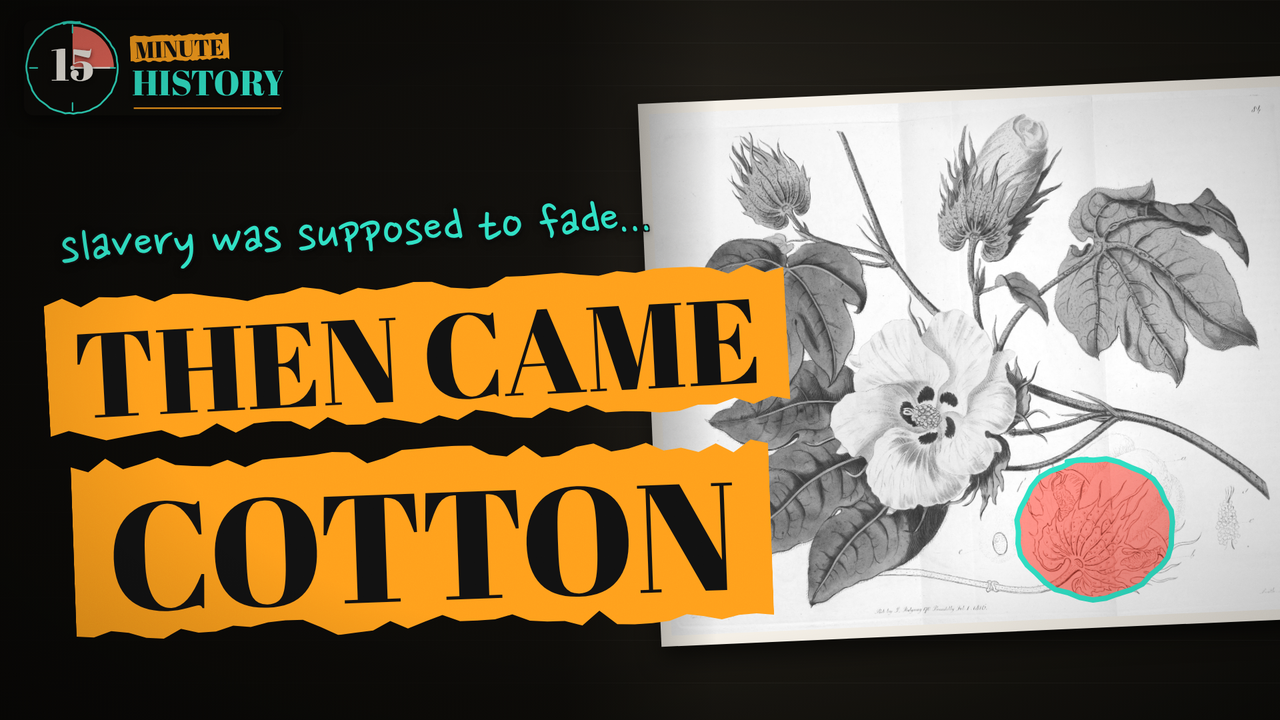
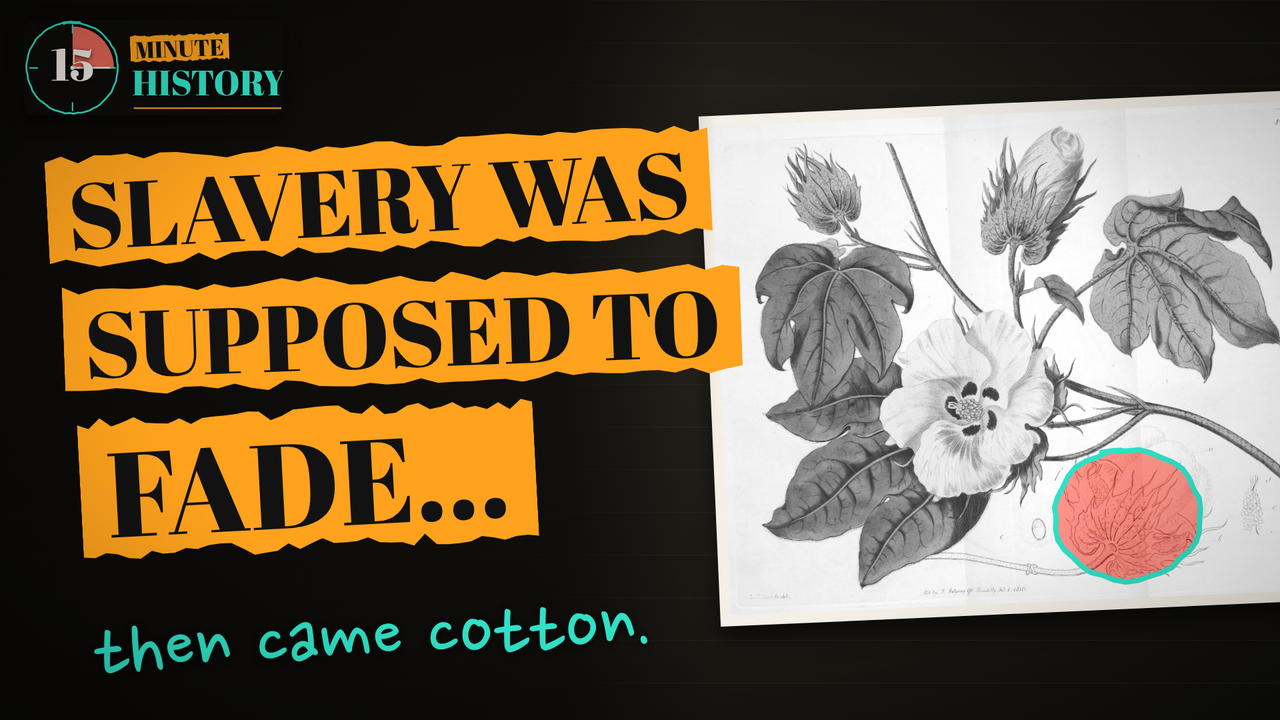
Thumbnail B: SLAVERY WAS SUPPOSED TO FADE... as the headline, then came cotton smaller
Claude-Session: https://claude.ai/code/session_015cLj4pVbnCdGKoP47eK68b

diff --git a/video/src/Thumbnail.tsx b/video/src/Thumbnail.tsx
@@ -2,7 +2,7 @@
 // (tools/thumbs.mjs renders frame 140 so every write-on has finished). No portrait of Nat Turner exists, so neither
 // concept invents a face: they use the video's own documents.
 //   A · the notice: Floyd's 1831 reward proclamation on the desk, the $500 line and the signature masked in coral.
-//   B · the seed: the 1815 cotton plate, its open boll masked, under the question.
+//   B · the seed: the 1815 cotton plate, its open boll masked; SLAVERY WAS SUPPOSED TO FADE..., then a smaller 'then came cotton.'
 import React from 'react';
 import {AbsoluteFill, staticFile} from 'remotion';
 import {Wordmark} from './kit/Intro';
@@ -50,13 +50,14 @@ export const ThumbB: React.FC = () => (
   <PaletteCtx.Provider value={PALETTES.locked}>
     <AbsoluteFill style={{background: '#15130f', overflow: 'hidden'}}>
       <DarkPaper />
-      <Doc src={SEED} x={990} y={150} w={960} rot={-2.5} sepia={0} at={0} marks={[
+      <Doc src={SEED} x={1080} y={170} w={900} rot={-2.5} sepia={0} at={0} marks={[
         {ellipse: [2565, 2600, 470, 420], at: 0, tint: true, seed: 31, width: 8},
       ]} />
       <AbsoluteFill style={{background: 'linear-gradient(90deg, rgba(8,7,5,0.9) 0%, rgba(8,7,5,0.7) 44%, rgba(8,7,5,0) 56%)'}} />
-      <Note text="slavery was supposed to fade..." x={90} y={300} size={54} rot={-3} color={TEAL} />
-      <Highlight text="THEN CAME" x={70} y={420} size={180} at={0} seed={75} rot={-3} />
-      <Highlight text="COTTON" x={110} y={670} size={230} at={0} seed={77} rot={-2} />
+      <Highlight text="SLAVERY WAS" x={70} y={210} size={140} at={0} seed={75} rot={-3} />
+      <Highlight text="SUPPOSED TO" x={95} y={410} size={140} at={0} seed={76} rot={-2} />
+      <Highlight text="FADE..." x={120} y={610} size={180} at={0} seed={77} rot={-3} />
+      <Note text="then came cotton." x={140} y={880} size={84} rot={-3} color={TEAL} />
       <Logo />
       <Finish vignette={0.3} />
     </AbsoluteFill>

diff --git a/review/YouTube_description.md b/review/YouTube_description.md
@@ -61,6 +61,6 @@ slavery in the old south, cotton south, nat turner, nat turner rebellion, cotton
 
 - **Altered or synthetic content: Yes.** The narration is an AI voice clone and the music is AI-generated. There are no AI images: every visual is a sourced historical image with an on-screen source tag.
 - **Category:** Education.
-- **Thumbnail:** `video/renders/thumbnails/Grip_Tighter_A.png` (alternate: `Grip_Tighter_B.png`).
+- **Thumbnail:** `video/renders/thumbnails/Grip_Tighter_B.png` ("SLAVERY WAS SUPPOSED TO FADE... then came cotton."; alternate: `Grip_Tighter_A.png`).
 - **Video file:** `Grip_Tighter_1080p.mp4` (the 1080p master, mastered to −14 LUFS).
 - **Audience:** not made for kids (it covers violence and sexual assault, stated plainly but not shown).
